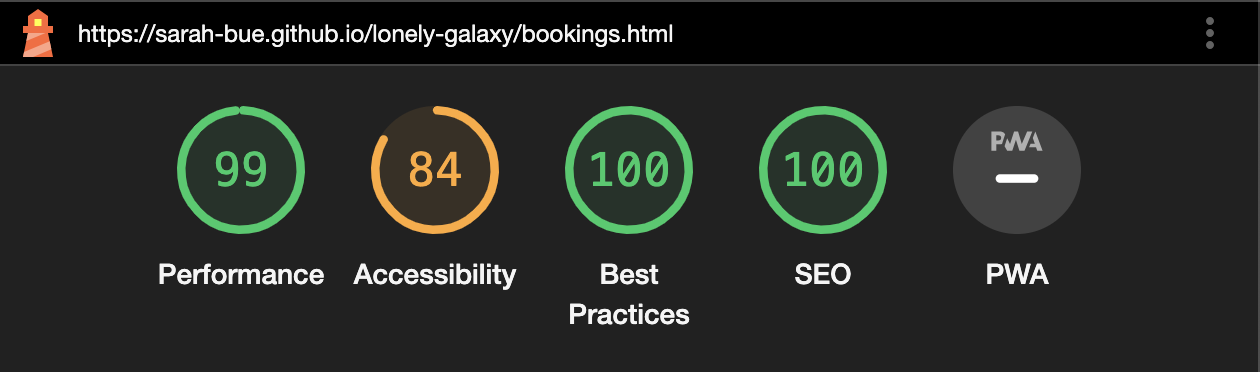
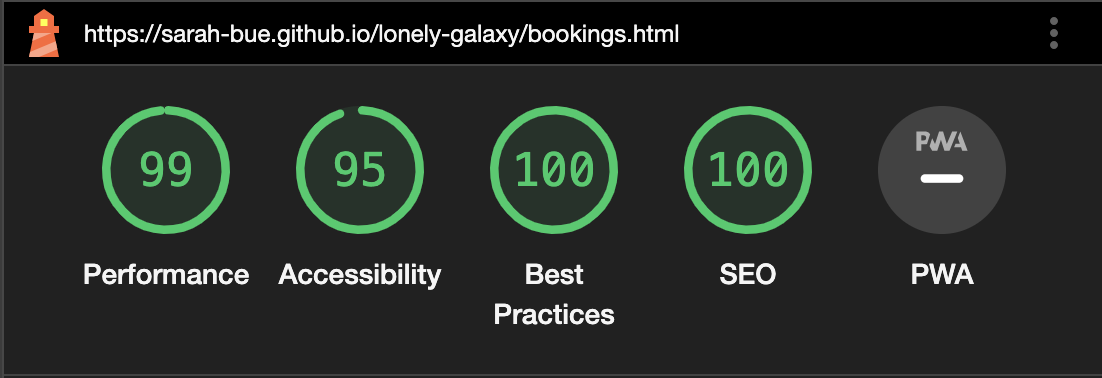
update lighthouse-bookings image after resolving accessibility issue

diff --git a/README.md b/README.md
@@ -243,8 +243,6 @@ As a client, I want to connect with the business on social media.
 
  - Bookings Page
     ![Lighthouse Report Bookings Page Image](assets/readme-files/lighthouse-bookings.png)
-    - The Accessibility score points out that the form input fields do not have an associated label, which can lead to issues with screenreaders and other assistive technology.
-    - The labels are present in the code, but are set to not display on mobile devices.
 
 - 404 Page
     ![Lighthouse Report 404 Page Image](assets/readme-files/lighthouse-404.png)
